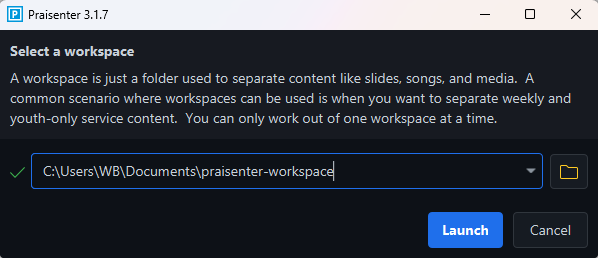
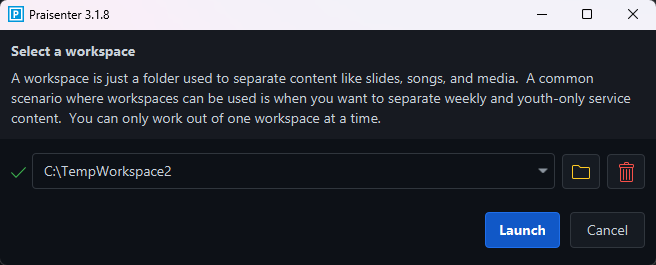
Updates for 3.1.10 release

diff --git a/_includes/slide-components.md b/_includes/slide-components.md
@@ -95,13 +95,21 @@ Here are a few examples of custom formats for the date/time `2025-11-08 11:40:25
 {: .table .w-auto}
 
 ## Countdown component[#](#countdown-component)
-The countdown component is a lot like the date/time component, but where the date/time component always shows the current date/time, the countdown component _counts down_ to a specific or relative date/time.
+The countdown component is a lot like the date/time component, but where the date/time component always shows the current date/time, the countdown component _counts down_ to a specific, relative date/time, or for a specified duration.
 
 ![Slides countdown component]({{ page.relpath }}assets/img/slides-countdown-component.png){: .rounded .img-fluid}
 
-The countdown component requires a _target_ date and time to countdown to.  This is great for upcoming events on a specific date.  Just enter the date of the event (you can set the time to 00:00:00 to stop the countdown on the day of) and whenever the slide is displayed, the component will show the time remaining until that date.  No need to adjust the coundown, restart it, or anything - it does it automatically!  By default, the countdown halts when it reaches the target date/time.  You can turn this behavior off using the `Stop at zero` setting.  If `Stop at zero` is disabled, the countdown will continue and will show negative values to indicate the target date/time has already passed.
+The countdown component has two modes of operation, target date/time or duration.  In target date/time mode, the countdown will show the time remaining from now until the given target date and time.  In duration mode, the countdown will start counting down as soon as the slide is presented and will stop after the given duration has ellapsed.
+
+In target date/time mode, a _target_ date and time is required.  This is great for upcoming events on a specific date.  Just enter the date of the event (you can set the time to 00:00:00 to stop the countdown on the day of the event) and whenever the slide is displayed, the component will show the time remaining until that date.  No need to adjust the coundown, restart it, or anything - it does it automatically!  By default, the countdown halts when it reaches the target date/time.  You can turn this behavior off using the `Stop at zero` setting.  If `Stop at zero` is disabled, the countdown will continue and will show negative values to indicate the target date/time has already passed.
 
 Another common use for a countdown is for a recurring event, like the beginning of a weekly service. To configure the countdown component for this purpose, toggle on the `Time only` setting and set the target time (the target date will be ignored).  Now the countdown component will countdown to the same time every time you show the slide.
+
+Finally, you might have a need to countdown a specific amount of time - like a five minute timer from now.  Unlike target date/time mode, duration mode only requires an amount of time to countdown.  The countdown will start as soon as the slide is shown. 
+
+> **NOTE**: In duration mode, the countdown will restart if you present the slide again.
+
+> **NOTE**: Duration mode only supports durations in the hours, minutes, and seconds range.  If you want to countdown days, use the target date/time mode.
 
 Like the date/time component, you can format the output of the countdown component with one of the present formats or with your own.  For example, imagine it's 2025-11-08 12:34 PM and you are counting down to 2025-11-14 4:00 PM:
 
@@ -156,6 +164,8 @@ As described in [Slide basics - Media]({{ page.relpath }}{{ page.slides_page }}#
 
 ## Moving components[#](#moving-components)
 To move a component around, hover the mouse over the component you want to move and wait for the mouse cursor to change to the move icon.  Then, click and hold the mouse button while moving the mouse.  Release the mouse button when you are finished moving the component.
+
+You can also use the arrow keys <kbd>&larr;</kbd>, <kbd>&rarr;</kbd>, <kbd>&uarr;</kbd>, and <kbd>&darr;</kbd> to move the selected component.
 
 ## Sizing components[#](#sizing-components)
 When you have a component selected, small white blocks appear in the corners and mid-points of the component.  Those white blocks are the sizing control points.  As you hover over a sizing control, the cursor will change to indicate what type of sizing operation it performs.  To resize, click and hold the mouse button on a control point while moving the mouse.  Release the mouse button when you are finished.

diff --git a/_includes/workspaces.md b/_includes/workspaces.md
@@ -9,11 +9,10 @@ Workspaces keep your content separated and organized - for example, you might ha
 ## Creating workspaces[#](#creating-workspaces)
 On start up, Praisenter will always ask you to select a worksapce.  When selecting a new workspace, Praisenter will setup a few things to ensure the workspace is ready for use (these steps happen in the background).  There are a few ways to pick a workspace:
 
-- You can use the text box to select a previously selected workspace
-- You can use the text box to type in a path to a folder
+- You can use the drop down to select a previously selected workspace
 - You can use the folder icon to select folder
 
-![Alt text]({{ page.relpath }}assets/img/workspace-selection.png){: .rounded .img-fluid}
+![workspace selection]({{ page.relpath }}assets/img/workspace-selection.png){: .rounded .img-fluid}
 
 You'll receive an error if you choose a folder with contents unless Praisenter detects it as an existing workspace. Once you have selected the workspace, click the `Launch` button to continue.
 
@@ -29,15 +28,15 @@ When you switch to a different workspace, the current workspace is closed. Any u
 You can also create a new workspace from the `File` -> `Switch Workspace` menu. Just like switching workspaces, make sure any unsaved documents are saved or discarded and that any content you are presenting is cleared before creating a new workspace.
 
 ## Removing workspaces[#](#removing-workspaces)
-As of version 3.1.7, there's no built-in way to remove a workspace. 
+Removing a workspace can be done from the workspace selection screen when the application starts.  From here you can use the trash can icon to remove the selected workspace.
 
-> **WARNING**: Removing workspaces requires manual file editing.
+> NOTE: Removing a workspace from here only removes it from the list of workspaces to choose from.  All files at that location are left as-is.  You'll need to manually delete/clean up that folder.
 
-However, if you want to clean up your workspaces you can delete the `workspaces.json` file stored in `C:\Users\your_user_name\.Praisenter3` on [Windows](https://apps.microsoft.com/detail/9phhwb94w800) or `/home/your_user_name/snap/praisenter/common/.Praisenter3` on Ubuntu (when using the [Snap](https://snapcraft.io/praisenter)) or `/home/your_user_name/.Praisenter3` on Ubuntu (when manually installing the `.DEB`).  This will clear the list of previously selected workspaces.  Just select the folder again to open an existing workspace.
+![workspace selection]({{ page.relpath }}assets/img/workspace-selection.png){: .rounded .img-fluid}
 
-Alternatively, you can _edit_ the `workspaces.json` file and remove specific workspaces. You'll want to focus on the `workspaces` and the `lastSelectedWorkspace` properties.  You can delete the workspace folder at any time.
+A confirmation dialog will show to confirm that you want to remove the workspace:
 
-> **NOTE**: Removing a workspace using the methods above only removes them from the _workspace selector_. You must manually delete the workspace folder to clean up any content in that workspace.
+![workspace removal confirmation dialog]({{ page.relpath }}assets/img/workspace-selection-remove-confirm.png){: .rounded .img-fluid}
 
 ## Workspace upgrade[#](#workspace-upgrade)
 When selecing a workspace, Praisenter checks whether it's an _existing_ workspace or a new workspace.  If it's an existing workspace, Praisenter checks the _version_ of the workspace.  If the workspace was last open in an old version of Praisenter, then it will be upgraded to the latest version.  Upgrading a workspace is usually a quick activity, but there could be upgrades in the future that take a significant amount of time.

diff --git a/_includes/presenting.md b/_includes/presenting.md
@@ -136,6 +136,8 @@ You can queue as many slides as you need - but too many may make switching diffi
 
 > **NOTE**: Praisenter does not support auto-playing the slides in the queue. To advance through the queue, you must manually click on each slide and then click `Show`.
 
+> **NOTE**: Once a slide has been queued, you can use the context menu (right-click or control-click) to create a new slide from that queued slide.  This feature allows you to save the slide exactly as it is - with any templated text, size adjustments, etc.  A slide created this way is _not_ a template, but will retain any templated text.  This can be useful when you want to adjust a templated slide manually or use text from a song or Bible verse.
+
 If you add slides in the wrong order, you can reorder them by clicking and dragging slides into the desired sequence.  In the example below, slide 3 is being moved above slide 2.
 
 ![presenting queue reorder]({{ page.relpath }}assets/img/present-queue-reorder.png){: .rounded .img-fluid}

diff --git a/_includes/displays.md b/_includes/displays.md
@@ -7,6 +7,8 @@ To get started, confirm that your displays are configured correctly on your syst
 - [Ubuntu](https://help.ubuntu.com/stable/ubuntu-help/display-dual-monitors.html.en) - set your display to "Join Displays"
 - [MacOS](https://support.apple.com/guide/mac-help/connect-an-external-display-mchl7c7ebe08/mac) - set your display to "Extend"
 
+> **NOTE**: On MacOS you'll also want to turn off "Displays have separate Spaces" system setting to remove the menu bar from the additional screen.
+
 Provided your system is configured properly, display setup in Praisenter is handled from the Present tab on the left navigation.  It's the first place you see after selecting a workspace when starting Praisenter.  On the Present tab, you can add and remove displays, name them, and more.  To better understand displays setup in Praisenter, consider the following example:
 
 ![multi-monitor setup]({{ page.relpath }}assets/img/multi-monitor-setup.png){: .rounded .img-fluid}
